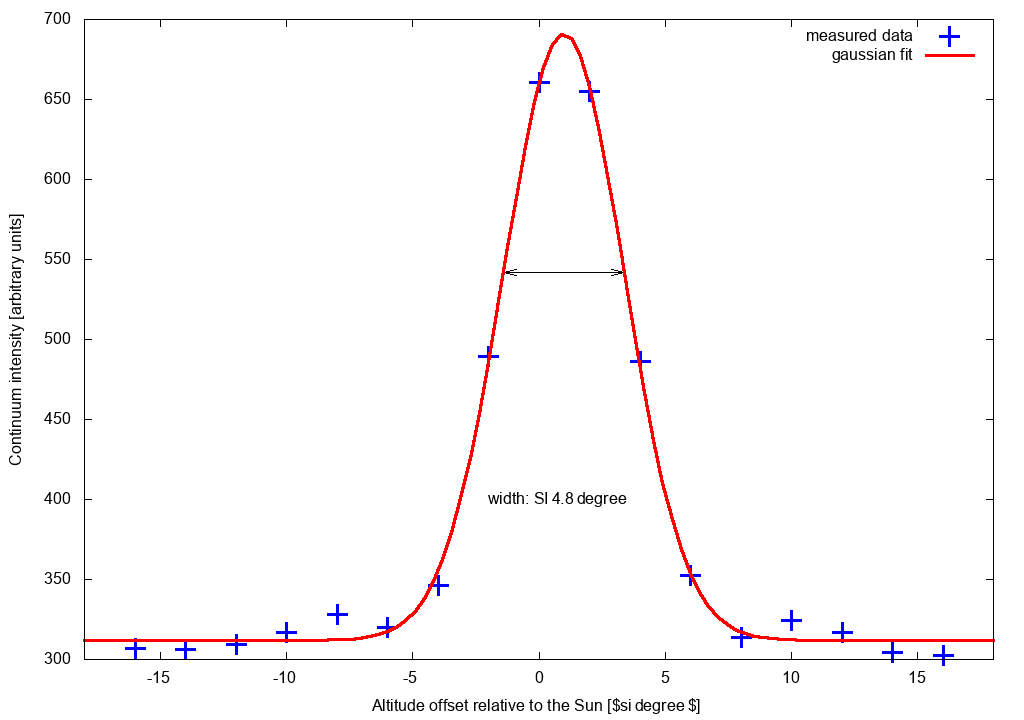
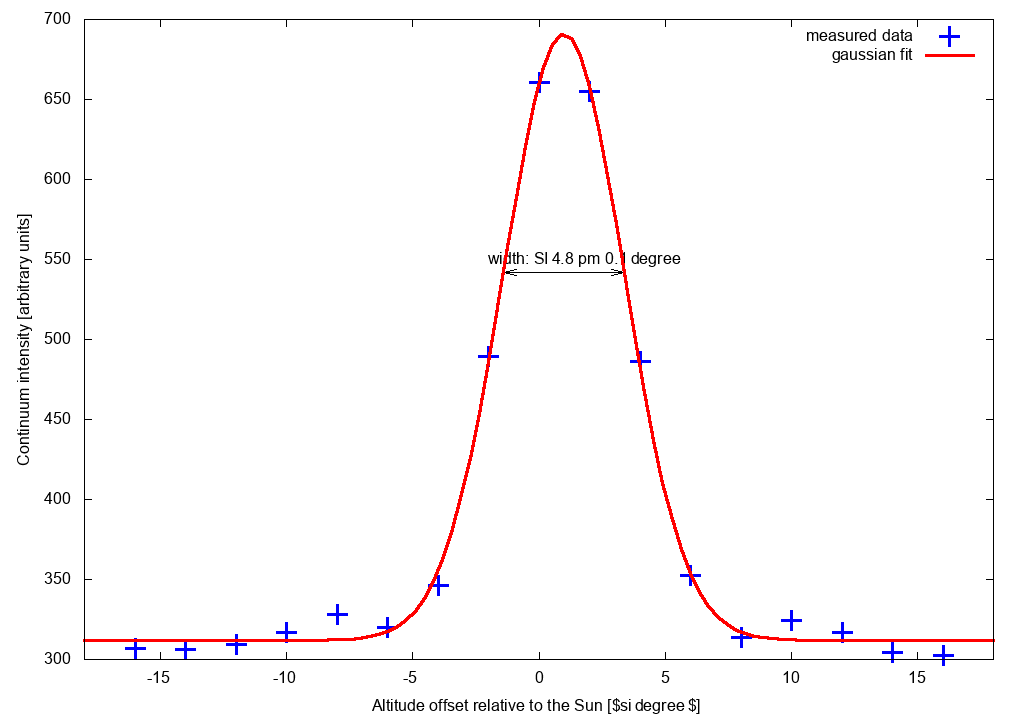
update Sonnenkreuz

Changed region(s): [[0.0, 0.3056, 0.0312, 0.6417], [0.4688, 0.3361, 0.6562, 0.3667], [0.4688, 0.6722, 0.625, 0.7028]]

diff --git a/Auswertung/plots/Sonnenkreuz_Alt.tex b/Auswertung/plots/Sonnenkreuz_Alt.tex
@@ -106,7 +106,7 @@
     }%
     \gplgaddtomacro\gplfronttext{%
       \csname LTb\endcsname%%
-      \put(209,2761){\rotatebox{-270}{\makebox(0,0){\strut{}Continuum intensity [arbitrary units]}}}%
+      \put(308,2761){\rotatebox{-270}{\makebox(0,0){\strut{}Continuum intensity [arbitrary units]}}}%
       \put(3874,154){\makebox(0,0){\strut{}Altitude offset relative to the Sun [$\si{}{\degree}$]}}%
       \csname LTb\endcsname%%
       \put(5816,4646){\makebox(0,0)[r]{\strut{}measured data}}%
